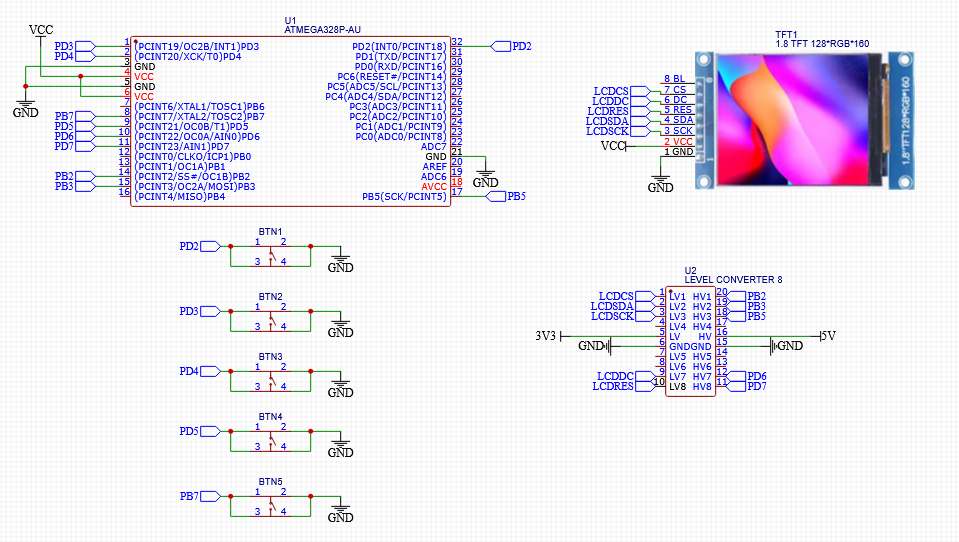
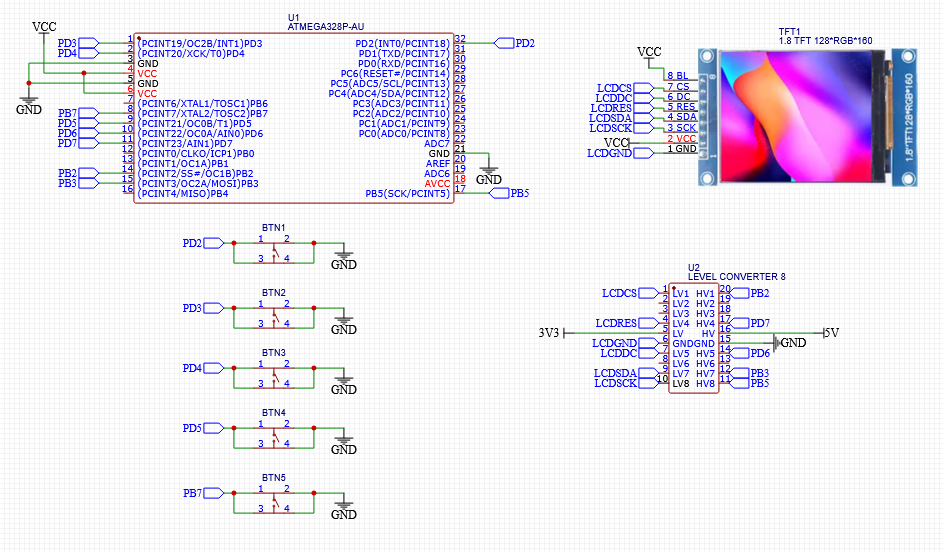
added interruptions handling

Changed region(s): [[0.0, 0.0295, 0.5843, 0.9742], [0.6151, 0.0295, 0.9841, 0.3542], [0.5536, 0.4723, 0.8918, 0.738]]

diff --git a/src/game.cpp b/src/game.cpp
@@ -1,9 +1,10 @@
 #include "game.h"
 
-#include "core.h"
 #include "usart.h"
 
-void print_game(nim* game)
+#include <avr/interrupt.h>
+
+void _d_print_game(nim* game)
 {
 	const char* names = "ABCD";
 	for (int i = 0; i < HEAPS; i++) {
@@ -29,11 +30,43 @@ bool game_ended(nim* game)
 
 void start_game(nim* game)
 {
+	// set game data
     game->lights_on = HEAPS * OPH;
     memset(game->heaps, OPH, HEAPS);
 
+	// enable buttons
     DDRB &= ~(1 << BTN);
-    PORTB |= (1 << BTN); 
+    PORTB |= (1 << BTN);
+
+	// heaps buttons used: PD2-PD5
+	DDRD &= ~(0xF << PD2);
+	PORTD |= (0xF << PD2);
+
+	// enable interrupts
+	sei();
+	PCICR |= (1 << PCIE2) | (1 << PCIE0);
+	PCMSK2 |= (0xF << PCINT18); // heap buttons interrupts
+    PCMSK0 |= (1 << PCINT7);    // onboard button interrupts
+}
+
+void game_loop(nim* game)
+{
+	_d_print_game(game);
+	while (true) {
+        machine_move(game);
+        _d_print_game(game);
+        if (game_ended(game)) {
+            USART0_print("Win\n");
+            break;
+        }
+
+        player_move(game);
+        _d_print_game(game);
+        if (game_ended(game)) {
+            USART0_print("Lose\n");
+            break;
+        }
+    }
 }
 
 void machine_move(nim* game) {
@@ -101,7 +134,7 @@ void machine_move(nim* game) {
 	}
 }
 
-void player_move(nim* game) {
+void _d_player_move(nim* game) {
     char taken = 0;
     char selected = 'e';
     char objects = 0;
@@ -125,7 +158,39 @@ void player_move(nim* game) {
             // allow the player to go back to the original number of elements
             taken = (taken + 1) % (objects + 1);
             game->heaps[selected - 'a'] = objects - taken;
-            print_game(game);
+            _d_print_game(game);
+        }
+    }
+
+    game->lights_on -= taken;
+}
+
+void player_move(nim* game)
+{
+	char taken = 0;
+    char selected = 'e';
+    char objects = 0;
+
+    while (true) {
+        if ((PINB & (1 << BTN)) == 0) {
+            if (taken != 0) {
+                break;
+            }
+        }
+
+        char op = USART0_receive();
+        if (op == -1) {
+            continue;
+        }
+        if (selected == 'e') {
+            selected = op;
+            objects = game->heaps[selected - 'a'];
+        }
+        if (op == selected) {
+            // allow the player to go back to the original number of elements
+            taken = (taken + 1) % (objects + 1);
+            game->heaps[selected - 'a'] = objects - taken;
+            _d_print_game(game);
         }
     }
 

diff --git a/src/main.cpp b/src/main.cpp
@@ -2,54 +2,41 @@
 #include "usart.h"
 #include "game.h"
 
-void test_buttons(void)
-{
-    bool pressed_last[4];
-    DDRB |= (1 << LED);
-
-    for (int i = 0; i < 4; i++) {
-        DDRD &= ~(1 << (BTN + i));
-        PORTD |= (1 << (BTN + i));
-    }
-    
-    while (true) {
-        for (int i = 0; i < 4; i++) {
-            if ((PIND & (1 << (BTN + i))) == 0) {
-                if (pressed_last[i]);
-                else {
-                    pressed_last[i] = true;
-                    PORTB ^= (1 << LED);
-                }
-            }
-            else {
-                pressed_last[i] = false;
-            }
-        }
-    }
-}
+#define BTNT PD2
 
 static nim game;
+extern uint8_t REHF;
+extern bool MP;
 
 int main() {
+
     USART0_init(CLOCK_SPEED, BAUD);
     USART0_print("ATmega Nim USART\n");
 
     start_game(&game);
-    print_game(&game);
+    //_d_print_game(&game);
+    //game_loop(&game);
 
     while (true) {
-        machine_move(&game);
-        print_game(&game);
-        if (game_ended(&game)) {
-            USART0_print("Win\n");
-            break;
+        if (REHF & (1 << PD2)) {
+            REHF &= ~(1 << PD2);
+            USART0_print("1\n");
         }
-
-        player_move(&game);
-        print_game(&game);
-        if (game_ended(&game)) {
-            USART0_print("Lose\n");
-            break;
+        if (REHF & (1 << PD3)) {
+            REHF &= ~(1 << PD3);
+            USART0_print("2\n");
+        }
+        if (REHF & (1 << PD4)) {
+            REHF &= ~(1 << PD4);
+            USART0_print("3\n");
+        }
+        if (REHF & (1 << PD5)) {
+            REHF &= ~(1 << PD5);
+            USART0_print("4\n");
+        }
+        if (MP) {
+            MP = false;
+            USART0_print("M\n");
         }
     }
 

diff --git a/src/interrupts.cpp b/src/interrupts.cpp
@@ -1,0 +1,53 @@
+#include <avr/interrupt.h>
+
+#include "core.h"
+
+// a flag bit is 1 if the logic is HIGH, 0 otherwise
+uint8_t REHF = 0; // rising edge heaps flag
+
+// a state bit is 1 if the buttons is not currently pressed
+uint8_t PHBS = 0xF; // previous heap buttons state
+
+ISR(PCINT2_vect)
+{
+    uint8_t crt_state = (PIND >> 2) & 0xF;
+    uint8_t changed_pins = crt_state ^ PHBS;
+
+    if (changed_pins & (1 << (PD2 - 2))) {
+        if ((crt_state & (1 << (PD2 - 2))) == 0) {
+            REHF |= (1 << PD2);
+        }
+    }
+    if (changed_pins & (1 << (PD3 - 2))) {
+        if ((crt_state & (1 << (PD3 - 2))) == 0) {
+            REHF |= (1 << PD3);
+        }
+    }
+    if (changed_pins & (1 << (PD4 - 2))) {
+        if ((crt_state & (1 << (PD4 - 2))) == 0) {
+            REHF |= (1 << PD4);
+        }
+    }
+    if (changed_pins & (1 << (PD5 - 2))) {
+        if ((crt_state & (1 << (PD5 - 2))) == 0) {
+            REHF |= (1 << PD5);
+        }
+    }
+
+    PHBS = crt_state;
+}
+
+bool MP = false;   // master button flags register
+bool PMS = true;   // previous master state
+
+ISR(PCINT0_vect)
+{
+    bool crt_state = (PINB & (1 << BTN)) != 0;
+    if (crt_state != PMS) {
+        if (!crt_state) {
+            MP = true;
+        }
+    }
+
+    PMS = crt_state;
+}

diff --git a/include/game.h b/include/game.h
@@ -1,8 +1,7 @@
 #ifndef GAME_H_
 #define GAME_H_
 
-#define HEAPS 4
-#define OPH 7
+#include "core.h"
 
 struct nim
 {
@@ -12,8 +11,10 @@ struct nim
 
 void start_game(nim* game);
 bool game_ended(nim* game);
-void print_game(nim* game);
+void game_loop(nim* game);
+void _d_print_game(nim* game);
 void machine_move(nim* game);
+void _d_player_move(nim* game);
 void player_move(nim* game);
 
 #endif

diff --git a/include/core.h b/include/core.h
@@ -11,4 +11,7 @@
 #define CLOCK_SPEED 16000000UL
 #define BAUD 19200UL
 
+#define HEAPS 4
+#define OPH 7
+
 #endif